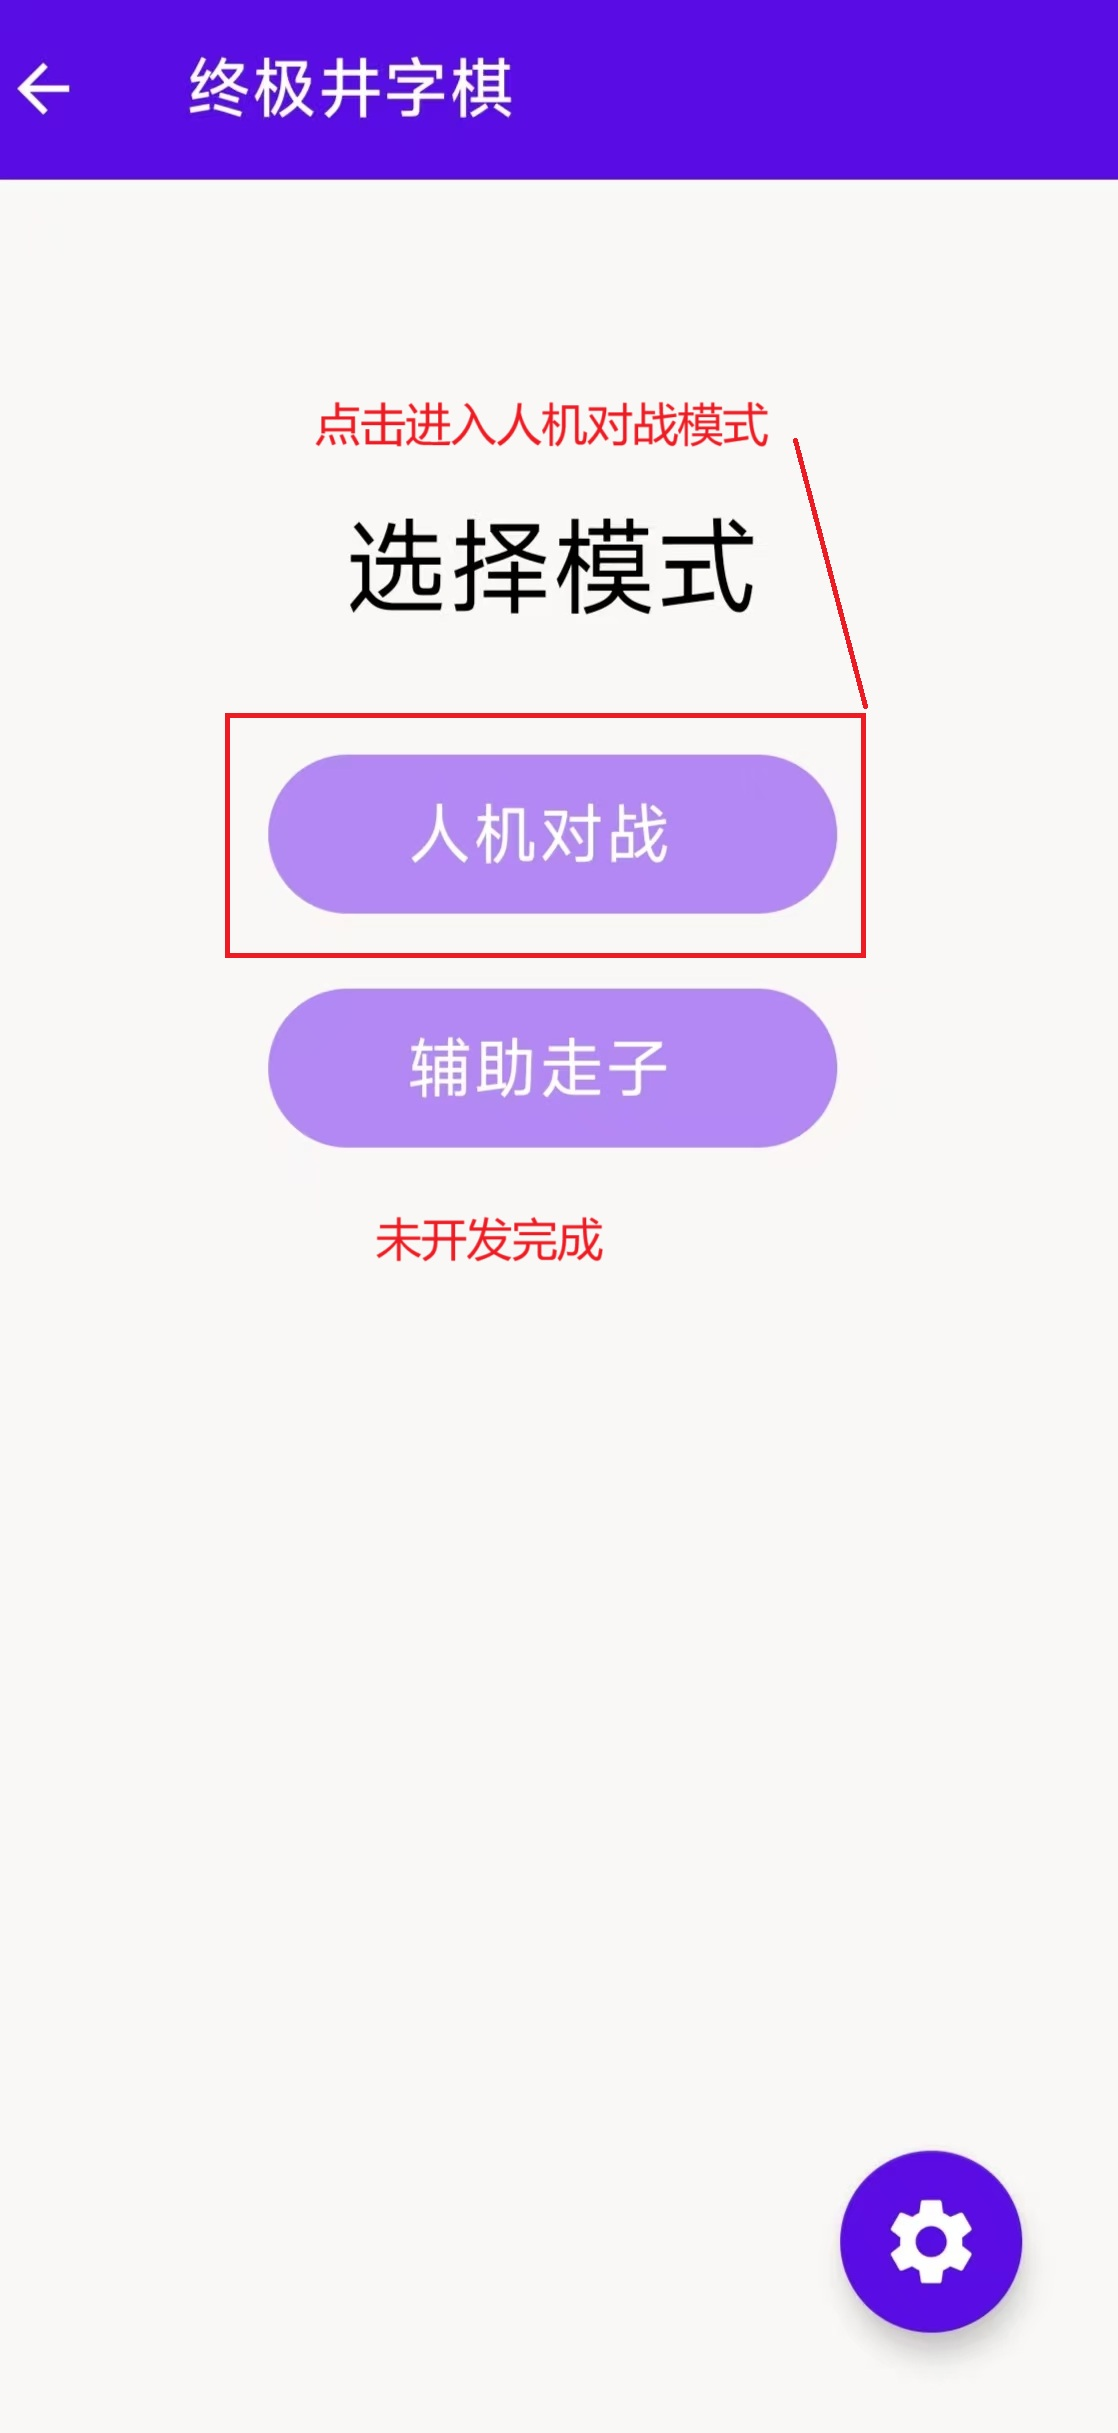
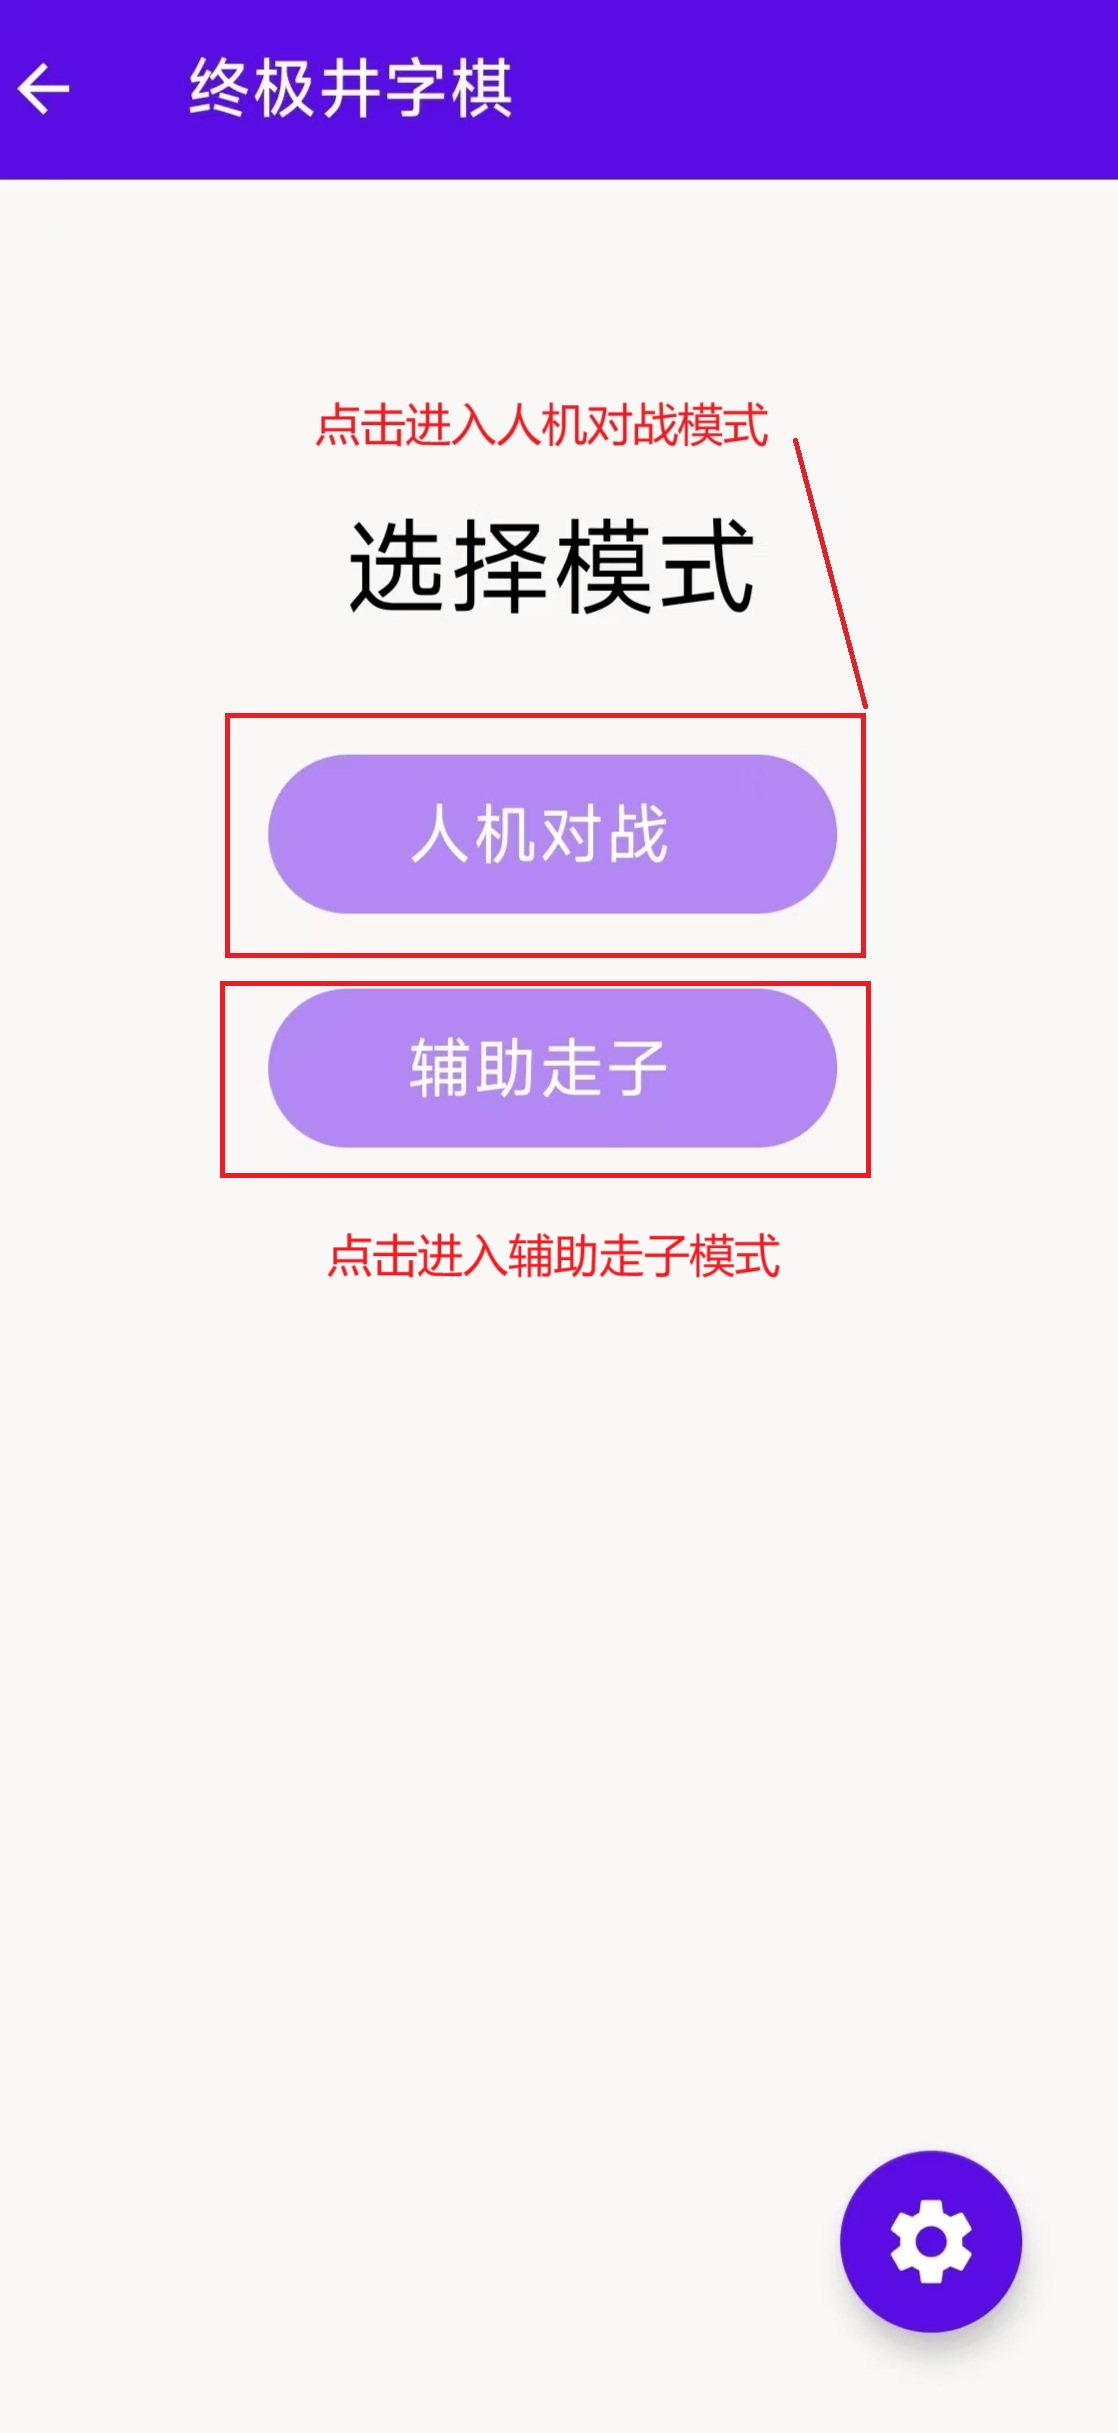
更新Readme，发布1.1.0

Changed region(s): [[0.3041, 0.4998, 0.6995, 0.531], [0.7603, 0.4061, 0.7907, 0.4998], [0.1825, 0.4061, 0.2129, 0.4998]]

diff --git a/Readme.md b/Readme.md
@@ -3,7 +3,11 @@
 
 计划开发的游戏：[终极井字棋](https://game.hullqin.cn/jzq)，[璀璨宝石](https://game.hullqin.cn/ccbs)
 
-**注意：** 项目正在开发中，可能会有较大的变化
+现在已开发完成：终极井字棋，只支持一种规则：「小井字棋」内部形成三连后禁止继续下棋，占领「小井字棋」数量更多的玩家胜利
+
+如果需要 chrome 插件或者终极井字棋的其他规则，可以在 gitee 上 pull request 或者提 issue
+
+**注意：**项目正在开发中，可能会有较大的变化
 
 ## 运行项目
 
@@ -28,17 +32,27 @@ cmake --build build -j
 ./build/humanplay/gameplay -config ./humanplay/humanplay_config.json5
 ```
 
-一并编译benckmark：
+一并编译benckmark和调参工具：
 
 ```shell
 # 在 GameAI/app/src/main/cpp/UTT 目录下
 rm -rf build/ # 可选
-cmake -B build -DLINUX_BUILD=ON -DENABLE_MCTS_PURE=ON -DENABLE_BENCHMARK=ON -DCMAKE_BUILD_TYPE=Release
+cmake -B build -DLINUX_BUILD=ON -DENABLE_MCTS_PURE=ON -DENABLE_TOOL=ON -DCMAKE_BUILD_TYPE=Release # 构建调参工具
+cmake -B build -DLINUX_BUILD=ON -DENABLE_MCTS_PURE=ON -DENABLE_BENCHMARK=ON -DCMAKE_BUILD_TYPE=Release # 构建benchmark
 cmake --build build -j
 # 运行 benchmark
 ./build/benchmark/benchmark -config ./benchmark/benchmark_config.json5
-```
+# 运行自对弈：./build/tool/self_play <n_playout1> <c_puct1> <n_playout2> <c_puct2>
+# 例：
+./build/tool/self_play 1000 0.8 2000 0.8
 
+# 运行调参脚本
+cd tool
+uv venv
+uv pip install -r requirements.txt
+source .venv/bin/activate
+python decide_params.py
+```
 
 ### 安卓程序
 
@@ -53,70 +67,84 @@ cmake --build build -j
 ## 文件目录说明
 
 ```cpp
-GameAI/ // 只显示正在使用中的文件
+GameAI/ // 只显示正在使用中的文件   
 ├── .gitignore
-├── Readme_developer.md // 开发者readme，存储一些暂时弃用的功能
+├── LICENSE
 ├── Readme.md
+├── Readme_developer.md // 开发者readme，存储一些暂时弃用的功能
 ├── app
-│   ├── .gitignore
-│   ├── build.gradle.kts // 构建配置
-│   └── src
-│       └── main
-│           ├── AndroidManifest.xml // 记录应用权限
-│           ├── assets
-│           ├── cpp
-│           │   └── UTT
-│           │       ├── CMakeLists.txt
-│           │       ├── core
-│           │       │   ├── CMakeLists.txt
-│           │       │   ├── MCTS
-│           │       │   │   ├── TreeNode.cpp // MCTS 树节点实现
-│           │       │   │   ├── TreeNode.h
-│           │       │   │   └── mcts_pure.h // MCTS算法
+│   ├── build.gradle.kts // 构建配置
+│   ├── proguard-rules.pro
+│   └── src
+│       └── main
+│           ├── AndroidManifest.xml // 记录应用权限和activity结构
+│           ├── cpp
+│           │   └── UTT
+│           │       ├── CMakeLists.txt
+│           │       ├── benchmark
+│           │       │   ├── CMakeLists.txt
+│           │       │   ├── benchmark_config.json5 // 测试配置
+│           │       │   └── speed_test.cpp // 速度测试
+│           │       ├── core
+│           │       │   ├── CMakeLists.txt
+│           │       │   ├── MCTS
+│           │       │   │   ├── TreeNode.cpp // MCTS 树节点实现
+│           │       │   │   ├── TreeNode.h
+│           │       │   │   └── mcts_pure.h // MCTS算法
 │           │       │   ├── base_game.h // 游戏基类接口
 │           │       │   ├── json5cpp.h // 解析json5 (依赖 jsoncpp)
 │           │       │   ├── utt.cpp // 终极井字棋游戏逻辑
 │           │       │   └── utt.h
-│           │       ├── humanplay
-│           │       │   ├── CMakeLists.txt
-│           │       │   ├── gameplay.cpp
-│           │       │   └── humanplay_config.json5 // 人机对战配置文件
-│           │       └── interface
-│           │           ├── CMakeLists.txt
-│           │           └── mcts_pure_bridge.cpp // 安卓使用的 JNI 接口
-│           ├── java
-│           │   └── com
-│           │       └── aiprojects
-│           │           └── gameai
-│           │               ├── MainActivity.kt
-│           │               ├── Native_objects_AIHuman.kt // UTTAIvsHuman 使用的 native_functions 封装
-│           │               ├── SettingActivity.kt
-│           │               ├── UTTAIvsHuman.kt
-│           │               ├── UTTHumanPlayerSelect.kt
-│           │               ├── UTTModeSelect.kt
-│           │               └── native_functions.kt // JNI 接口
-│           └── res
+│           │       ├── humanplay
+│           │       │   ├── CMakeLists.txt
+│           │       │   ├── gameplay.cpp // 简易人机对战实现
+│           │       │   └── humanplay_config.json5 // 人机对战配置文件
+│           │       ├── interface
+│           │       │   ├── CMakeLists.txt
+│           │       │   └── mcts_pure_bridge.cpp // 安卓使用的 JNI 接口
+│           │       └── tool
+│           │           ├── CMakeLists.txt
+│           │           ├── decide_params.py // 调参脚本
+│           │           ├── requirements.txt // 脚本依赖
+│           │           └── self_play.cpp // 参数自对弈检验
+│           ├── java
+│           │   └── com
+│           │       └── aiprojects
+│           │           └── gameai
+│           │               ├── MainActivity.kt
+│           │               ├── Native_objects_AIHuman.kt // UTT 使用的 native_functions 封装
+│           │               ├── SettingActivity.kt
+│           │               ├── UTTAISuggest.kt
+│           │               ├── UTTAIvsHuman.kt
+│           │               ├── UTTHumanPlayerSelect.kt
+│           │               ├── UTTModeSelect.kt
+│           │               └── native_functions.kt // JNI 接口
+│           └── res
 │               ├── drawable // 使用的图标
 │               │   ├── baseline_arrow_back_24.xml // 返回键
 │               │   └── baseline_settings_24.xml // 设置键
-│               ├── layout // 界面布局
+│               ├── layout // 界面布局
 │               ├── mipmap-... // 存储不同清晰度的应用图标
-│               ├── values
-│               │   ├── arrays.xml
-│               │   ├── colors.xml
-│               │   ├── ids.xml
-│               │   ├── strings.xml
-│               │   └── themes.xml
-│               └── xml
+│               ├── values // 部分常量
+│               └── xml
 │                   └── root_preferences.xml // 设置界面
 ├── build.gradle.kts // gradle 配置
+├── changelog.txt
 ├── gradle
-│   ├── libs.versions.toml
-│   └── wrapper
-│       ├── gradle-wrapper.jar
-│       └── gradle-wrapper.properties
+│   ├── libs.versions.toml
+│   └── wrapper
+│       ├── gradle-wrapper.jar
+│       └── gradle-wrapper.properties
 ├── gradle.properties
 ├── gradlew
 ├── gradlew.bat
+├── img // md 使用的图片
 └── settings.gradle.kts
 ```
+
+
+
+## 开发指南
+
+### 添加新游戏
+在项目中增加文件，实现 base_game.h 定义的接口和自己的 humanplay 逻辑和安卓界面，同时相应修改 cmake 编译文件即可，可以参考 utt.h 和 utt.cpp 的实现

diff --git a/Readme_developer.md b/Readme_developer.md
@@ -3,6 +3,10 @@
 
 计划开发的游戏：[终极井字棋](https://game.hullqin.cn/jzq)，[璀璨宝石](https://game.hullqin.cn/ccbs)
 
+现在已开发完成：终极井字棋，只支持一种规则：「小井字棋」内部形成三连后禁止继续下棋，占领「小井字棋」数量更多的玩家胜利
+
+如果需要 chrome 插件或者终极井字棋的其他规则，可以在 gitee 上 pull request 或者提 issue
+
 **注意：**项目正在开发中，可能会有较大的变化
 
 ## 运行项目
@@ -38,7 +42,8 @@ cmake -B build -DLINUX_BUILD=ON -DENABLE_MCTS_PURE=ON -DENABLE_BENCHMARK=ON -DCM
 cmake --build build -j
 # 运行 benchmark
 ./build/benchmark/benchmark -config ./benchmark/benchmark_config.json5
-# 运行自对弈
+# 运行自对弈：./build/tool/self_play <n_playout1> <c_puct1> <n_playout2> <c_puct2>
+# 例：
 ./build/tool/self_play 1000 0.8 2000 0.8
 
 # 运行调参脚本
@@ -96,74 +101,79 @@ cmake --build build -j
 
 ## 文件目录说明
 
-TODO 更新目录
-
 ```cpp
-GameAI/ // 只显示正在使用中的文件
+GameAI/ // 只显示正在使用中的文件   
 ├── .gitignore
-├── Readme_developer.md // 开发者readme，存储一些暂时弃用的功能
+├── LICENSE
 ├── Readme.md
+├── Readme_developer.md // 开发者readme，存储一些暂时弃用的功能
 ├── app
-│   ├── .gitignore
-│   ├── build.gradle.kts // 构建配置
-│   └── src
-│       └── main
-│           ├── AndroidManifest.xml // 记录应用权限
-│           ├── assets
-│           ├── cpp
-│           │   └── UTT
-│           │       ├── CMakeLists.txt
-│           │       ├── core
-│           │       │   ├── CMakeLists.txt
-│           │       │   ├── MCTS
-│           │       │   │   ├── TreeNode.cpp // MCTS 树节点实现
-│           │       │   │   ├── TreeNode.h
-│           │       │   │   └── mcts_pure.h // MCTS算法
+│   ├── build.gradle.kts // 构建配置
+│   ├── proguard-rules.pro
+│   └── src
+│       └── main
+│           ├── AndroidManifest.xml // 记录应用权限和activity结构
+│           ├── cpp
+│           │   └── UTT
+│           │       ├── CMakeLists.txt
+│           │       ├── benchmark
+│           │       │   ├── CMakeLists.txt
+│           │       │   ├── benchmark_config.json5 // 测试配置
+│           │       │   └── speed_test.cpp // 速度测试
+│           │       ├── core
+│           │       │   ├── CMakeLists.txt
+│           │       │   ├── MCTS
+│           │       │   │   ├── TreeNode.cpp // MCTS 树节点实现
+│           │       │   │   ├── TreeNode.h
+│           │       │   │   └── mcts_pure.h // MCTS算法
 │           │       │   ├── base_game.h // 游戏基类接口
 │           │       │   ├── json5cpp.h // 解析json5 (依赖 jsoncpp)
 │           │       │   ├── utt.cpp // 终极井字棋游戏逻辑
 │           │       │   └── utt.h
-│           │       ├── humanplay
-│           │       │   ├── CMakeLists.txt
-│           │       │   ├── gameplay.cpp
-│           │       │   └── humanplay_config.json5 // 人机对战配置文件
-│           │       └── interface
-│           │           ├── CMakeLists.txt
-│           │           └── mcts_pure_bridge.cpp // 安卓使用的 JNI 接口
-│           ├── java
-│           │   └── com
-│           │       └── aiprojects
-│           │           └── gameai
-│           │               ├── MainActivity.kt
-│           │               ├── Native_objects_AIHuman.kt // UTTAIvsHuman 使用的 native_functions 封装
-│           │               ├── SettingActivity.kt
-│           │               ├── UTTAIvsHuman.kt
-│           │               ├── UTTHumanPlayerSelect.kt
-│           │               ├── UTTModeSelect.kt
-│           │               └── native_functions.kt // JNI 接口
-│           └── res
+│           │       ├── humanplay
+│           │       │   ├── CMakeLists.txt
+│           │       │   ├── gameplay.cpp // 简易人机对战实现
+│           │       │   └── humanplay_config.json5 // 人机对战配置文件
+│           │       ├── interface
+│           │       │   ├── CMakeLists.txt
+│           │       │   └── mcts_pure_bridge.cpp // 安卓使用的 JNI 接口
+│           │       └── tool
+│           │           ├── CMakeLists.txt
+│           │           ├── decide_params.py // 调参脚本
+│           │           ├── requirements.txt // 脚本依赖
+│           │           └── self_play.cpp // 参数自对弈检验
+│           ├── java
+│           │   └── com
+│           │       └── aiprojects
+│           │           └── gameai
+│           │               ├── MainActivity.kt
+│           │               ├── Native_objects_AIHuman.kt // UTT 使用的 native_functions 封装
+│           │               ├── SettingActivity.kt
+│           │               ├── UTTAISuggest.kt
+│           │               ├── UTTAIvsHuman.kt
+│           │               ├── UTTHumanPlayerSelect.kt
+│           │               ├── UTTModeSelect.kt
+│           │               └── native_functions.kt // JNI 接口
+│           └── res
 │               ├── drawable // 使用的图标
 │               │   ├── baseline_arrow_back_24.xml // 返回键
 │               │   └── baseline_settings_24.xml // 设置键
-│               ├── layout // 界面布局
+│               ├── layout // 界面布局
 │               ├── mipmap-... // 存储不同清晰度的应用图标
-│               ├── values
-│               │   ├── arrays.xml
-│               │   ├── colors.xml
-│               │   ├── ids.xml
-│               │   ├── strings.xml
-│               │   └── themes.xml
-│               └── xml
+│               ├── values // 部分常量
+│               └── xml
 │                   └── root_preferences.xml // 设置界面
 ├── build.gradle.kts // gradle 配置
+├── changelog.txt
 ├── gradle
-│   ├── libs.versions.toml
-│   └── wrapper
-│       ├── gradle-wrapper.jar
-│       └── gradle-wrapper.properties
+│   ├── libs.versions.toml
+│   └── wrapper
+│       ├── gradle-wrapper.jar
+│       └── gradle-wrapper.properties
 ├── gradle.properties
 ├── gradlew
 ├── gradlew.bat
+├── img // md 使用的图片
 └── settings.gradle.kts
 ```
 
